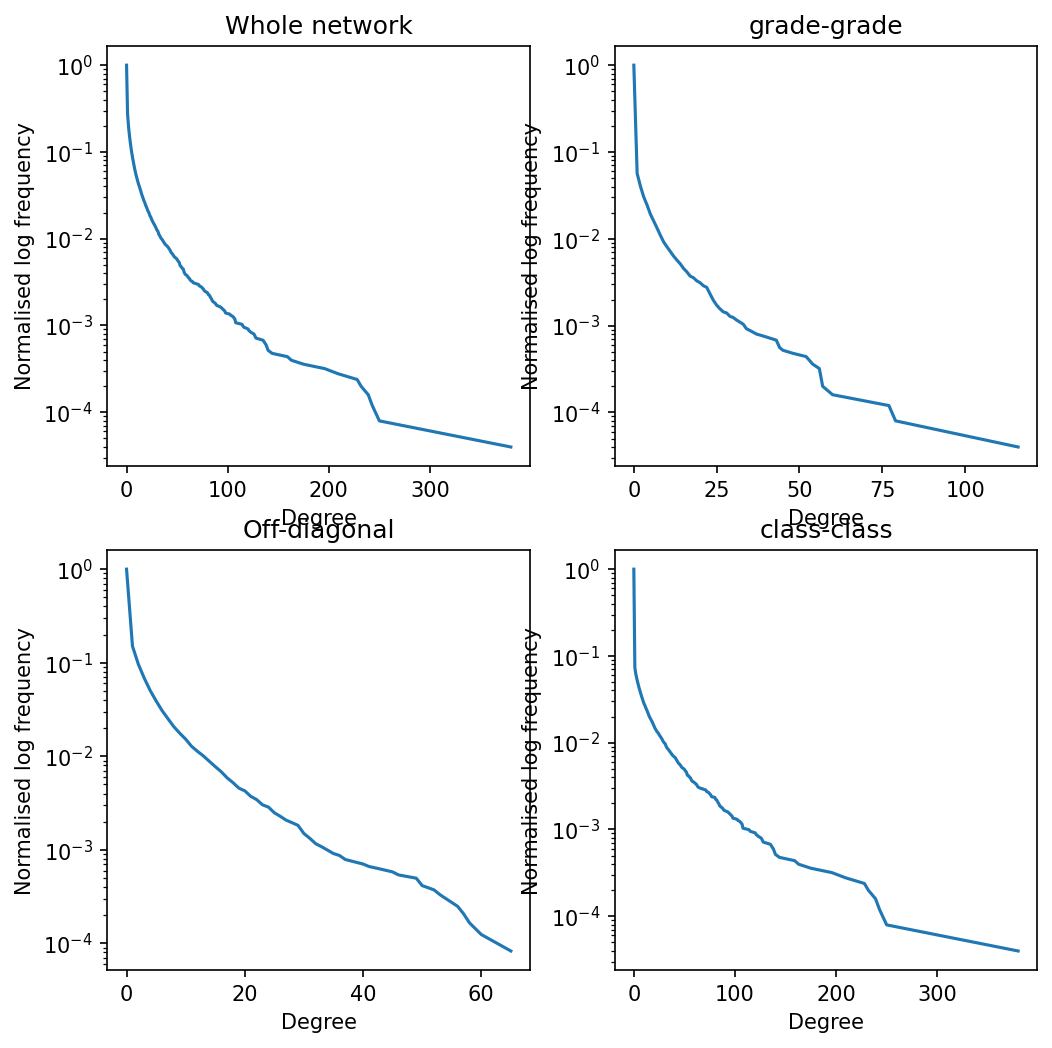
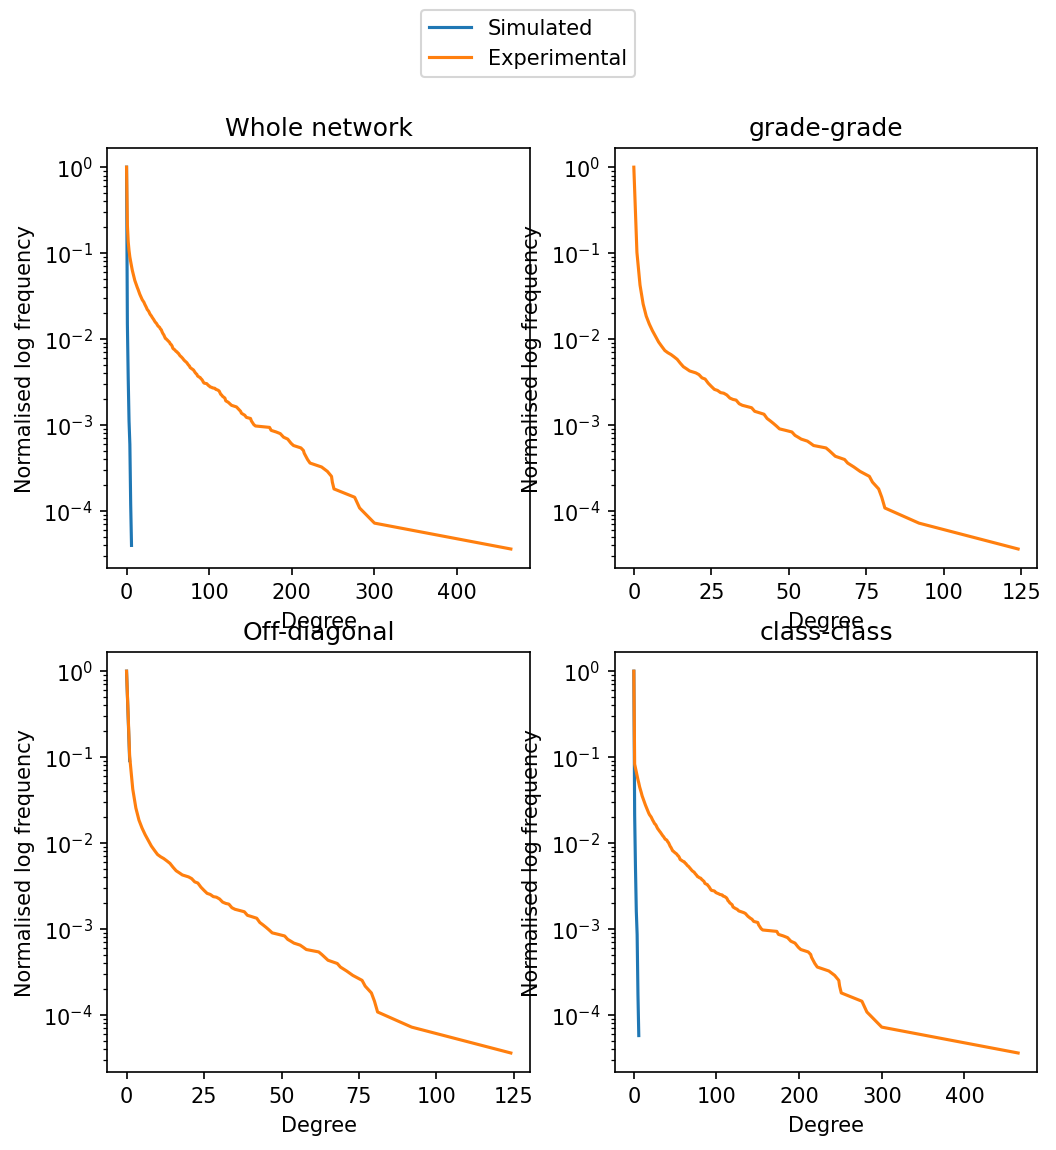
Updated pixeldist function with experimental network

diff --git a/analysis.py b/analysis.py
@@ -1,7 +1,10 @@
+from cProfile import label
+import pickletools
 import networkx as nx
 import numpy as np
 import matplotlib.pyplot as plt
 import seaborn as sns
+import pickle
 
 from scipy import stats
 
@@ -40,7 +43,7 @@ class Analysis:
                 elif not grade:
                     if node.get_class_and_grade() != n.get_class_and_grade():
                         G.add_edge(node, n, count=graph[node][n]['count'])
-        self.heatmap(G)
+        #self.heatmap(G)
         return G
 
     def createSubGraphWithoutGraph(self, graph, diagonal, gradeInteraction):  #objektene er ikke konservert med sine atributter
@@ -61,22 +64,29 @@ class Analysis:
         self.heatmap(G)
         return G
 
-    def pixelDist(self, graph, logY, logX, axis = None):
-        A = self.heatmap(graph, output = True)
-        #print(A[np.triu_indices(236, k = 1)])
-        length = len(graph.nodes())
+    def pixelDist(self, graph, logX, logY, axis = None, old= False):
+        if not old: 
+            A = self.heatmap(graph, output = True)
+            #print(A[np.triu_indices(236, k = 1)])
+            length = len(graph.nodes())
 
-        weights = A[np.triu_indices(length, k = 1)].tolist()[0]
+            weights = A[np.triu_indices(length, k = 1)].tolist()[0]
 
-        data = sorted(weights)
+            data = sorted(weights)
+            
+            sorteddata = np.sort(data)
+            d = self.toCumulative(sorteddata)
         
-        sorteddata = np.sort(data)
-        d = self.toCumulative(sorteddata)
+        if old: 
+            d = graph
 
         #print(float(sum(sorteddata))/float(len(sorteddata)))
 
         if axis:
-            axis.plot(d.keys(), d.values())
+            if old:
+                axis.plot(d.keys(), d.values(), label='Experimental')
+            else:
+                axis.plot(d.keys(), d.values(), label='Simulated')
 
             if logX:
                 axis.set_xscale('log')
@@ -107,22 +117,40 @@ class Analysis:
             plt.show()
         
         # print(np.triu(A.todense(), k=1)) # 
+
+    def pickleLoad(self,name):
+        file_to_read = open(name, 'rb')
+        return pickle.load(file_to_read)
     
-    def pixel_dist_school(self, graph):
+    def pixel_dist_school(self, graph, old = False):
         off_diagonal = self.createSubGraphWithout(graph, True, False)
         grade_grade = self.createSubGraphWithoutGraph(graph, False, True)
         class_class = self.createSubGraphWithoutGraph(graph,True, False)
 
+        if old:
+            old_graph = self.pickleLoad('graph1_whole_pixel.pkl')
+            old_off_diagonal = self.pickleLoad('graph1_off_diag.pkl')
+            old_grade = self.pickleLoad('graph1_grade_pixel.pkl')
+            old_class = self.pickleLoad('graph1_class_pixel.pkl')
+
+
         figure, axis = plt.subplots(2, 2, figsize=(8,8))
 
-        self.pixelDist(graph, True, False, axis[0,0])
+        self.pixelDist(graph, False, True, axis[0,0])
+        self.pixelDist(old_graph, False, True,axis[0,0],old=True)
         axis[0,0].set_title('Whole network')
-        self.pixelDist(off_diagonal,True, False, axis[1,0])
+        self.pixelDist(off_diagonal,False, True, axis[1,0])
+        self.pixelDist(old_off_diagonal, False, True,axis[1,0],old=True)
         axis[1,0].set_title('Off-diagonal')
-        self.pixelDist(grade_grade,True, False, axis[0,1])
+        self.pixelDist(grade_grade,False, True, axis[0,1])
+        self.pixelDist(old_grade, False, True,axis[0,1],old=True)
         axis[0,1].set_title('grade-grade')
-        self.pixelDist(class_class,True, False, axis[1,1])
+        self.pixelDist(class_class,False, True, axis[1,1])
+        self.pixelDist(old_class, False, True,axis[1,1],old=True)
         axis[1,1].set_title('class-class')
+
+        handles, labels = axis[1,1].get_legend_handles_labels()
+        figure.legend(handles, labels, loc='upper center')
 
         plt.savefig('pixelDistSimulated.png', bbox_inches='tight', dpi=150)
 

diff --git a/test.py b/test.py
@@ -1,0 +1,35 @@
+import matplotlib.pyplot as plt
+import random
+import numpy as np
+
+liste = []
+
+
+for i in range(0,1000):
+    k = random.randint(0,10)
+    l = random.random()
+    liste.append(int(l))
+
+def toCumulative(l):                                                                                               
+            n = len(l)                                                                                                      
+            dictHist = {}                                                                                                   
+            for i in l:                                                                                                     
+                if i not in dictHist:                                                                                       
+                    dictHist[i] = 1                                                                                         
+                else:                                                                                                       
+                    dictHist[i] += 1                                                                                        
+            cHist = {}                                                                                                      
+            cumul = 1                                                                                                       
+            for i in dictHist:                                                                                              
+                cHist[i] = cumul                                                                                            
+                cumul -= float(dictHist[i])/float(n)
+            return cHist
+
+power = toCumulative(liste)
+
+
+plt.plot(power.keys(), power.values())
+plt.yscale('linear')
+plt.xscale('linear')
+
+plt.show()

diff --git a/person.py b/person.py
@@ -24,7 +24,7 @@ class Person:
         self.lunch_group = self.set_lunch_group()
         self.interactions = {}
 
-        self.const_bias = 20*(math.log(1/random.random()))
+        self.const_bias = 20*(math.log10(1/random.random()))
         #self.const_bias = 5 - 0.06*random.random()
         self.bias_vector = {}
         self.p_vector = {}
@@ -91,24 +91,22 @@ class Person:
     def generate_p_vector(self, students):
         for i in range(len(students)):    
 
-            p = random.randint(0,0)
+            p = 1*(1/pow(random.random(),1)-1)
 
             if self.lunch_group == students[i].lunch_group:
-                p+=random.randint(0,15)
+               p+= 2*(1/pow(random.random(),1)-1)
+                #random.randint(0,15)
             if self.grade == students[i].grade:
-                p+=random.randint(0,10) #20
+                p+= 4*(1/pow(random.random(),1)-1)
+                #random.randint(0,10) #20
             if self.class_group == students[i].class_group and self.grade == students[i].grade:
-                p+=random.randint(0,70)
-            
-            #if p <= 10:
-            #    s = random.random()
-            #    if s <= 0.1:
-            #        p += 5
+                p+= ((1250))*(1/pow(random.random(),1)-1)
+                #random.randint(0,70)
         
             self.p_vector[students[i]]=p*self.bias_vector[students[i]]*students[i].bias_vector[self]
 
     def renormalize(self):
-        self.bias = self.const_bias + 180*(math.log(1/random.random()))
+        self.bias = self.const_bias + 180*(math.log10(1/random.random()))
         #self.bias = self.const_bias + 10 #- 0.06*random.random()
         normTarget = self.bias
 

diff --git a/main.py b/main.py
@@ -20,10 +20,11 @@ def main():
     #analysis.heatmap(network.generate_a_day())
     #analysis.histDistributionLog(network.generateXdays(8))
     # G = analysis.createSubGraphWithoutGraph(network.generateXdays(8), False, True)
-    G = network.generateXdays(20)
-    analysis.pixel_dist_school(G)
-    analysis.heatmap(G)
-    analysis.histDistributionLog(G)
+    #G = network.generateXdays(20)
+    G = network.generate_a_day()
+    analysis.pixel_dist_school(G, old=True)
+    #analysis.heatmap(G)
+    #analysis.histDistributionLog(G)
     #analysis.displayNetwork(G)
     #analysis.runAnalysis(network.generateXdays(10))
 

diff --git a/network.py b/network.py
@@ -8,7 +8,7 @@ from person import Person, Interaction
 class Network:
     def __init__(self, num_students, num_grades, num_classes, class_threshhold=20) -> None:
         self.students = self.generate_students(num_students, num_grades, num_classes, class_treshold=class_threshhold)
-        self.d = (2/3)*pow(10,-3) #5.1
+        self.d = (2/3)*pow(10,-5.5) #5.1
         self.graph = self.generate_network(100)
         self.daily_list = []
 
